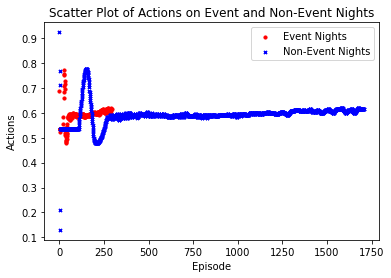
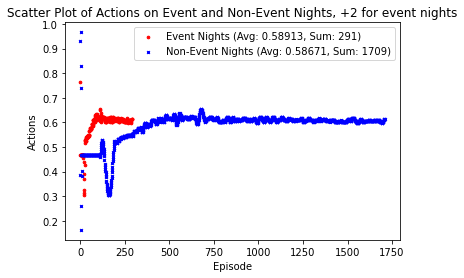
oirhos

diff --git a/Main.py b/Main.py
@@ -22,7 +22,7 @@ rewards = []
 actions=[]
 avg_rewards = []
 epsilon = 0.7
-for episode in range(0,2000):
+for episode in range(0,5000):
     state = np.array([0])
     #state = env.reset()
     #noise.reset()
@@ -89,14 +89,19 @@ event_episodes = np.arange(len(event_actions))
 non_event_episodes = np.arange(len(non_event_actions))
 
 # Create scatter plots for event and non-event nights with smaller dots
-plt.scatter(event_episodes, event_actions, marker='o', color='red', label='Event Nights', s=10)
-plt.scatter(non_event_episodes, non_event_actions, marker='x', color='blue', label='Non-Event Nights', s=10)
+plt.scatter(event_episodes, event_actions, marker='o', color='red', label='Event Nights', s=7)
+plt.scatter(non_event_episodes, non_event_actions, marker='x', color='blue', label='Non-Event Nights', s=7)
 
 # Set labels and title
+legend_entries = [
+    f'Event Nights (Avg: {average_event_actions:.5f}, Sum: {len(event_actions)})',
+    f'Non-Event Nights (Avg: {average_non_event_actions:.5f}, Sum: {len(non_event_actions)})'
+]
+
 plt.xlabel('Episode')
 plt.ylabel('Actions')
-plt.title('Scatter Plot of Actions on Event and Non-Event Nights')
-plt.legend()
+plt.title('Scatter Plot of Actions on Event and Non-Event Nights, +5 for event nights')
+plt.legend(legend_entries)
 
 # Show the plot
 plt.show()

diff --git a/Trainer.py b/Trainer.py
@@ -100,7 +100,7 @@ class NormalizedEnv():
         new_state = 0
         rewards_score = self.reward(individual_actions)
         if self.event_night:
-            rewards_score += 2
+            rewards_score += 5
         
         # Collect actions for both event and non-event nights
         if self.event_night:
